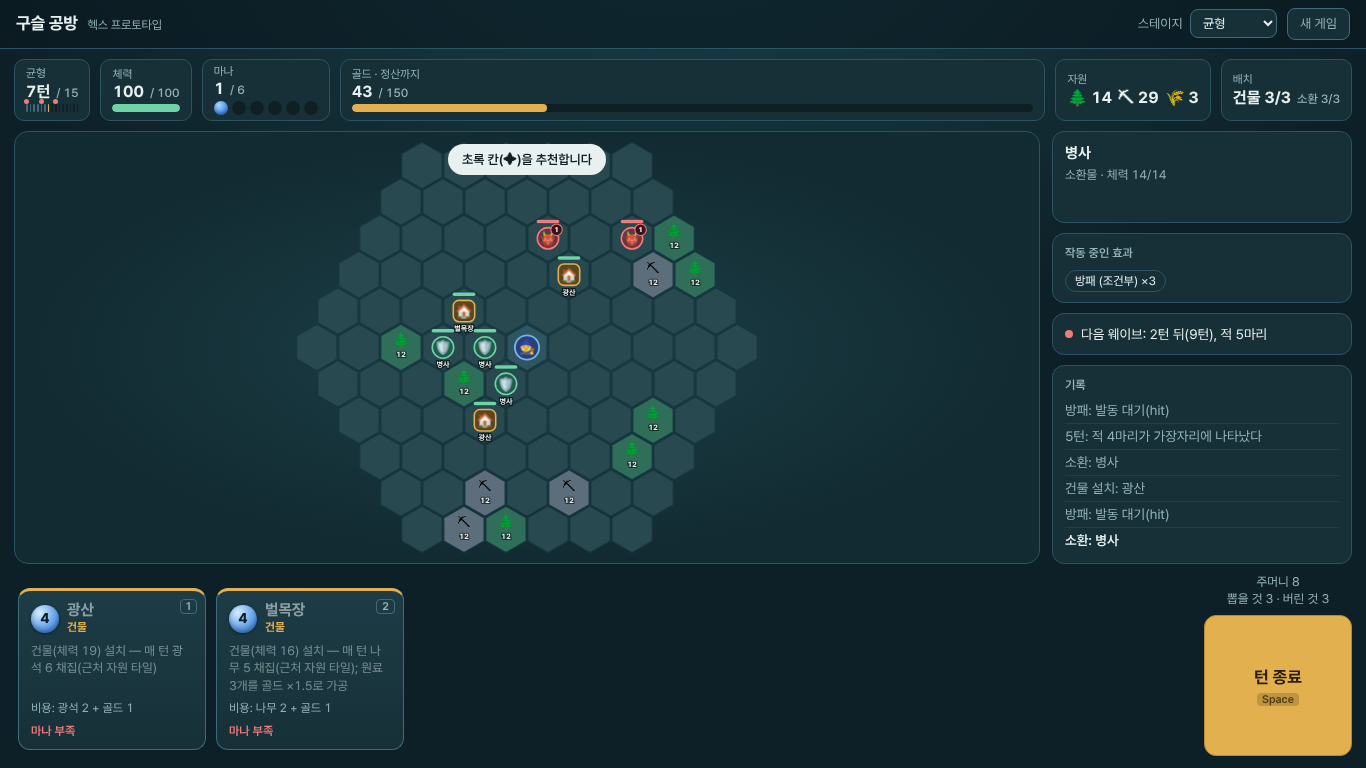
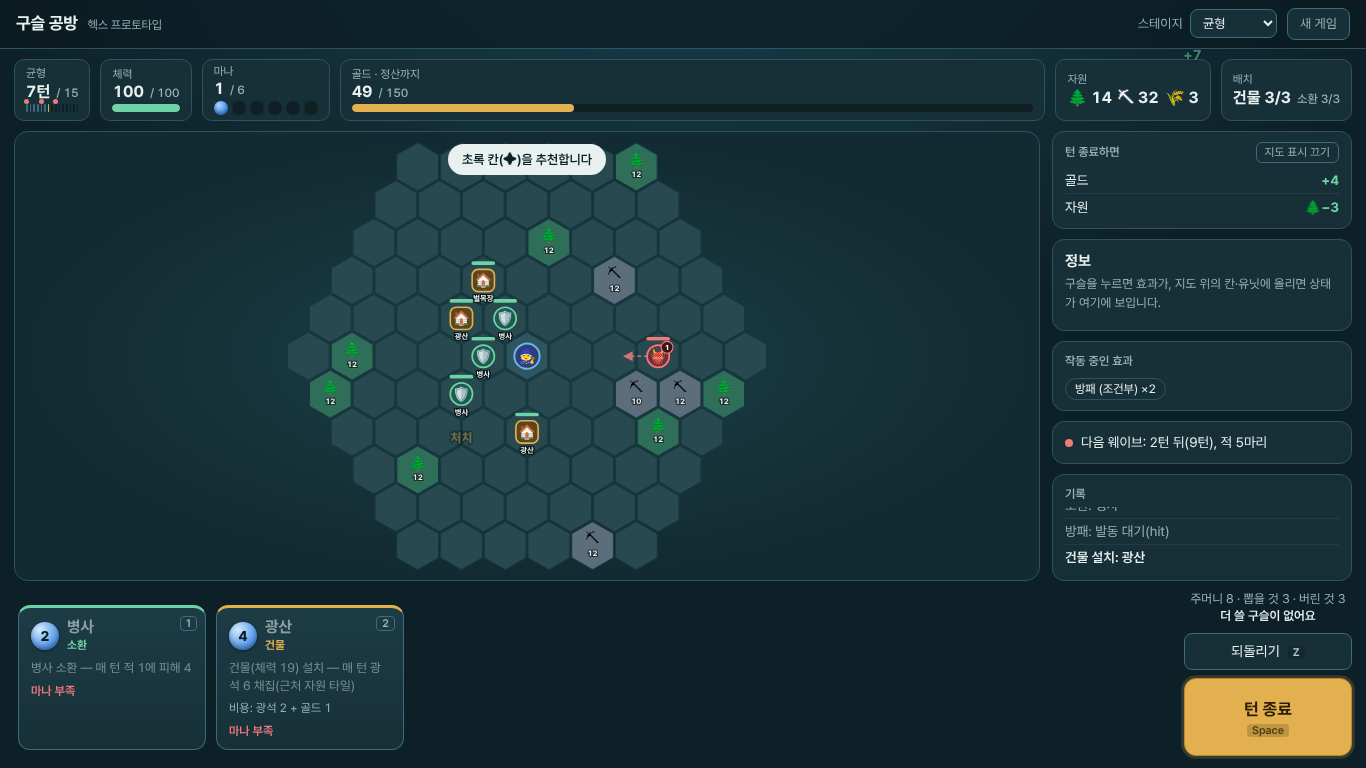
proto: 편의성 개선(턴 종료 예측, 되돌리기, 같은 판 다시, 끌어다 놓기·빠른 배치)
Claude-Session: https://claude.ai/code/session_01LFYfXQ7w4xaHAaCW9wdBAn

diff --git a/proto/app.js b/proto/app.js
@@ -1,5 +1,6 @@
 const S = 34, SQ3 = Math.sqrt(3), R = 5;
 let st = null, prev = null, sel = null, busy = false, pinned = null;
+let history = [], startState = null, pv = null, pvSeq = 0, showPv = true, dragMoved = false;
 const $ = (id) => document.getElementById(id);
 const px = (q, r) => [S * SQ3 * (q + r / 2), S * 1.5 * r];
 const hexPts = (cx, cy, s = S - 1.5) => Array.from({ length: 6 }, (_, i) => { const a = Math.PI / 180 * (60 * i - 30); return `${(cx + s * Math.cos(a)).toFixed(1)},${(cy + s * Math.sin(a)).toFixed(1)}`; }).join(" ");
@@ -27,7 +28,7 @@ const bcostText = (o) => o.role === "build" && o.bcost ? `비용: ${RES[o.bcost[
 
 /* ---------- 흐름 ---------- */
 async function newGame() {
-  if (busy) return; busy = true; sel = null; pinned = null; prev = null;
+  if (busy) return; busy = true; sel = null; pinned = null; prev = null; history = []; startState = null; pv = null;
   const v = await api("new", { stage_type: $("stype").value }); busy = false;
   if (v.error) return alert(v.error);
   st = v; $("over").hidden = true; $("app").hidden = false; resetMap(); render();
@@ -36,7 +37,7 @@ function render() {
   const setup = st.phase === "setup";
   $("setup").hidden = !setup; $("play").hidden = setup;
   if (setup) renderSetup();
-  else { renderHud(); renderMap(); renderHand(); renderSide(); runDiff(); }
+  else { renderHud(); renderMap(); renderHand(); renderSide(); runDiff(); if (st.phase === "play") fetchPreview(); else { pv = null; renderPreview(); } }
   $("over").hidden = st.phase !== "over"; if (st.phase === "over") renderOver();
   prev = st;
 }
@@ -92,11 +93,12 @@ function renderHud() {
 }
 
 /* ---------- 지도 ---------- */
-let hexLayer, unitLayer, ghostLayer, floatLayer, units = new Map();
+let hexLayer, unitLayer, previewLayer, ghostLayer, floatLayer, units = new Map();
 function resetMap() {
   const m = $("map"); m.innerHTML = ""; units = new Map();
-  hexLayer = svg("g"); unitLayer = svg("g"); ghostLayer = svg("g", { class: "ghost" }); floatLayer = svg("g");
-  m.append(hexLayer, unitLayer, ghostLayer, floatLayer);
+  const defs = svg("defs", {}, svg("marker", { id: "arr", viewBox: "0 0 10 10", refX: 8, refY: 5, markerWidth: 6, markerHeight: 6, orient: "auto-start-reverse" }, svg("path", { d: "M0,0 L10,5 L0,10 z", fill: "#ef7b7b" })));
+  hexLayer = svg("g"); unitLayer = svg("g"); previewLayer = svg("g", { class: "pvlayer" }); ghostLayer = svg("g", { class: "ghost" }); floatLayer = svg("g");
+  m.append(defs, hexLayer, unitLayer, previewLayer, ghostLayer, floatLayer);
 }
 function selCard() { return sel !== null && st ? st.hand.find((h) => h.idx === sel) : null; }
 function renderMap() {
@@ -109,6 +111,7 @@ function renderMap() {
     const cls = "hex" + (t ? " " + t.t : "") + (q === 0 && r === 0 ? " home" : "") + (ok.has(k) ? " ok" : "") + (hint.has(k) ? " hint" : "");
     const p = svg("polygon", { points: hexPts(x, y), class: cls });
     if (ok.has(k)) {
+      p.dataset.q = q; p.dataset.r = r;
       p.addEventListener("click", () => playCard(sel, [q, r]));
       p.addEventListener("pointerenter", () => ghost(c, x, y)); p.addEventListener("pointerleave", () => ghostLayer.replaceChildren());
     } else if (t) p.addEventListener("pointerenter", () => inspectTile(t));
@@ -191,7 +194,7 @@ function inspectUnit(u) {
 function renderSide() {
   const c = selCard(), box = $("inspect");
   if (pinned && units.get(pinned)) inspectUnit(units.get(pinned));
-  else if (c) box.replaceChildren(el("b", {}, c.o.name), el("div", { class: "sub" }, `${ROLE[c.o.role] || c.o.role} · 마나 ${c.o.mana}`), el("p", {}, c.o.text), el("p", { class: "sub" }, c.need_tile ? (c.hint.length ? "초록 칸(✦)에 놓으면 보너스가 붙습니다." : "노란 칸 중 하나를 고르세요.") : ""));
+  else if (c) box.replaceChildren(el("b", {}, c.o.name), el("div", { class: "sub" }, `${ROLE[c.o.role] || c.o.role} · 마나 ${c.o.mana}`), el("p", {}, c.o.text), el("p", { class: "sub" }, c.need_tile ? (c.hint.length ? "초록 칸(✦)에 놓으면 보너스가 붙습니다. " : "노란 칸 중 하나를 고르세요. ") + "Enter(또는 더블클릭): 추천 칸에 바로 놓기 · 칸으로 끌어다 놓아도 됩니다." : ""));
   else box.replaceChildren(el("b", {}, "정보"), el("p", { class: "sub" }, "구슬을 누르면 효과가, 지도 위의 칸·유닛에 올리면 상태가 여기에 보입니다."));
   const fx = $("effects"); fx.hidden = !st.fx.length;
   if (st.fx.length) {
@@ -209,12 +212,16 @@ function renderHand() {
   const hd = $("hand"); hd.innerHTML = "";
   st.hand.forEach((h, n) => {
     const o = h.o, dis = !!h.why || st.phase !== "play";
+    let card0 = null;
     const card = el("div", { class: `orb r-${o.role}` + (dis ? " dis" : "") + (sel === h.idx ? " sel" : ""), tabindex: "0", role: "listitem", "aria-label": `${o.name}, 마나 ${o.mana}${h.why ? ", 쓸 수 없음: " + h.why : ""}`, "aria-disabled": String(dis),
-      onclick: () => { if (dis) return toast(h.why || "지금은 쓸 수 없습니다"); playCard(h.idx); },
+      onclick: () => { if (dragMoved) { dragMoved = false; return; } if (dis) return toast(h.why || "지금은 쓸 수 없습니다"); playCard(h.idx); },
       onkeydown: (e) => { if (e.key === "Enter" || e.key === " ") { e.preventDefault(); e.stopPropagation(); if (dis) toast(h.why || "지금은 쓸 수 없습니다"); else playCard(h.idx); } },
-      onpointerenter: () => { if (sel === null && !pinned) peek(h); } },
+      onpointerenter: () => { if (sel === null && !pinned) peek(h); },
+      onpointerdown: (e) => { if (!dis && h.need_tile) startDrag(e, h, card0); },
+      ondblclick: () => { if (!dis && h.need_tile) quick(h); } },
       el("div", { class: "top1" }, el("div", { class: "bead" }, String(o.mana)), el("div", {}, el("div", { class: "nm" }, o.name), el("div", { class: "role" }, ROLE[o.role] || o.role))),
       el("div", { class: "tx" }, o.text));
+    card0 = card;
     const bc = bcostText(o); if (bc) card.append(el("div", { class: "cost" }, bc));
     if (h.why) card.append(el("div", { class: "why" }, h.why));
     if (n < 9) card.append(el("span", { class: "key", "aria-hidden": "true" }, String(n + 1)));
@@ -222,7 +229,10 @@ function renderHand() {
   });
   if (!st.hand.length) hd.append(el("span", { class: "empty" }, "손패가 없습니다. 턴을 끝내면 새로 뽑습니다."));
   $("endturn").disabled = st.phase !== "play" || busy;
-  $("piles").innerHTML = `주머니 ${st.bag}<br>뽑을 것 ${st.draw} · 버린 것 ${st.disc}`;
+  const usable = st.hand.filter((h) => !h.why).length;
+  $("endturn").classList.toggle("ready", st.phase === "play" && !usable);
+  $("undo").disabled = busy || !history.length;
+  $("piles").innerHTML = `주머니 ${st.bag} · 뽑을 것 ${st.draw} · 버린 것 ${st.disc}<br><b>${usable ? `쓸 수 있는 구슬 ${usable}개 남음` : "더 쓸 구슬이 없어요"}</b>`;
 }
 function peek(h) { $("inspect").replaceChildren(el("b", {}, h.o.name), el("div", { class: "sub" }, `${ROLE[h.o.role] || h.o.role} · 마나 ${h.o.mana}`), el("p", {}, h.o.text)); }
 
@@ -234,6 +244,7 @@ async function playCard(idx, tile) {
   busy = true; const v = await api("play", { idx, tile }); busy = false; sel = null;
   if (v.error) return toast(v.error);
   if (v.action && v.action.error) toast(v.action.error);
+  if (!(v.action && v.action.error)) pushHistory();
   st = v; render();
 }
 async function endTurn() {
@@ -241,14 +252,14 @@ async function endTurn() {
   $("endturn").disabled = true; $("endturn").firstChild.textContent = "적 행동 중…";
   const v = await api("end_turn"); busy = false; $("endturn").firstChild.textContent = "턴 종료";
   if (v.error) { toast(v.error); return render(); }
-  st = v; render();
+  pushHistory(); st = v; render();
 }
 function renderOver() {
   const r = st.result, o = $("over");
   const rows = [["모은 골드", `${r.gold} / 필요 ${r.due}`], ["처치한 적", r.kills], ["진행한 턴", r.turns], ["쓰러졌는가", r.died ? "예 (이 스테이지의 골드 몰수)" : "아니오"], ["골드 출처", `처치 ${r.src.g_bounty || 0} · 돈 구슬 ${r.src.g_money || 0} · 가공 ${r.src.g_process || 0}`], ["인접 시너지 발동", r.src.adj_bonus || 0]];
   const t = el("table", {}); rows.forEach(([a, b]) => t.append(el("tr", {}, el("td", {}, a), el("td", {}, String(b)))));
   const again = el("button", { class: "primary big", type: "button", onclick: newGame }, "다시 하기");
-  o.replaceChildren(el("div", { class: "result", role: "dialog", "aria-modal": "true", "aria-label": "스테이지 결과" }, el("h2", { class: r.pass ? "pass" : "fail" }, r.pass ? "정산 통과" : "정산 실패"), t, el("div", { class: "acts" }, el("button", { type: "button", onclick: () => { o.hidden = true; } }, "지도 보기"), again)));
+  o.replaceChildren(el("div", { class: "result", role: "dialog", "aria-modal": "true", "aria-label": "스테이지 결과" }, el("h2", { class: r.pass ? "pass" : "fail" }, r.pass ? "정산 통과" : "정산 실패"), t, el("div", { class: "acts" }, el("button", { type: "button", onclick: () => { o.hidden = true; } }, "지도 보기"), startState ? el("button", { type: "button", title: "같은 맵·같은 주머니·같은 적 등장으로 다시 시작합니다", onclick: replay }, "같은 판 다시") : null, again)));
   setTimeout(() => again.focus(), 50);
 }
 
@@ -256,12 +267,92 @@ function renderOver() {
 document.addEventListener("keydown", (e) => {
   if (!st || st.phase !== "play" || e.ctrlKey || e.metaKey || e.altKey) return;
   const tag = (e.target.tagName || "").toLowerCase(); if (tag === "input" || tag === "select") return;
-  if (e.key >= "1" && e.key <= "9") { const h = st.hand[+e.key - 1]; if (h) { e.preventDefault(); if (h.why) toast(h.why); else playCard(h.idx); } }
+  if (e.key >= "1" && e.key <= "9") { const h = st.hand[+e.key - 1]; if (h) { e.preventDefault(); if (h.why) toast(h.why); else if (sel === h.idx && h.need_tile) quick(h); else playCard(h.idx); } }
+  else if (e.key === "z" || e.key === "Z" || e.key === "ㅋ") { e.preventDefault(); undo(); }
   else if (e.key === "Escape") { if (sel !== null) { sel = null; pinned = null; renderHud(); renderMap(); renderHand(); renderSide(); } }
-  else if ((e.key === " " || e.key === "Enter") && tag !== "button" && !e.target.classList.contains("orb")) { e.preventDefault(); endTurn(); }
+  else if ((e.key === " " || e.key === "Enter") && tag !== "button" && !e.target.classList.contains("orb")) { e.preventDefault(); const c = selCard(); if (c) quick(c); else endTurn(); }
 });
 $("map").addEventListener("pointerleave", () => { if (st && st.phase === "play") renderSide(); });
 $("newgame").addEventListener("click", newGame);
-$("start").addEventListener("click", async () => { if (busy) return; busy = true; const v = await api("start"); busy = false; if (v.error) return toast(v.error); st = v; resetMap(); render(); });
+$("start").addEventListener("click", async () => { if (busy) return; busy = true; const v = await api("start"); busy = false; if (v.error) return toast(v.error); st = v; startState = v; history = []; resetMap(); render(); });
 $("endturn").addEventListener("click", endTurn);
+$("undo").addEventListener("click", undo);
+document.addEventListener("keydown", (e) => { if ((e.ctrlKey || e.metaKey) && (e.key === "z" || e.key === "Z") && st && st.phase !== "setup") { e.preventDefault(); undo(); } });
 newGame();
+
+
+/* ---------- 되돌리기 · 같은 판 다시 ---------- */
+function pushHistory() { history.push(st); if (history.length > 80) history.shift(); }
+function undo() {
+  if (busy || !st || st.phase === "setup") return;
+  if (!history.length) return toast("되돌릴 행동이 없습니다");
+  st = history.pop(); sel = null; pinned = null; prev = null; $("over").hidden = true; render(); toast("되돌렸습니다");
+}
+function replay() { if (!startState) return; st = startState; history = []; sel = null; pinned = null; prev = null; $("over").hidden = true; resetMap(); render(); }
+
+/* ---------- 빠른 배치 · 끌어다 놓기 ---------- */
+const bestTile = (c) => (c.hint.length ? c.hint[0] : c.tiles[0]);
+function quick(h) { if (!h.tiles.length) return toast("놓을 수 있는 칸이 없습니다"); playCard(h.idx, bestTile(h)); }
+function startDrag(e, h, cardEl) {
+  if (e.button > 0 || busy) return;
+  const x0 = e.clientX, y0 = e.clientY; let dragging = false, chip = null, over = null;
+  const tileAt = (x, y) => { const t = document.elementFromPoint(x, y); return t && t.closest && t.closest(".hex.ok"); };
+  const move = (ev) => {
+    if (!dragging) {
+      if (Math.hypot(ev.clientX - x0, ev.clientY - y0) < 8) return;
+      dragging = true; dragMoved = true; sel = h.idx; renderHud(); renderMap(); renderSide();
+      document.querySelectorAll(".orb.sel").forEach((n) => n.classList.remove("sel")); cardEl.classList.add("sel");
+      chip = el("div", { class: "dragchip r-" + h.o.role }, h.o.name); document.body.append(chip);
+    }
+    chip.style.transform = `translate(${ev.clientX + 12}px,${ev.clientY + 12}px)`;
+    const t = tileAt(ev.clientX, ev.clientY);
+    if (t !== over) { if (over) over.classList.remove("drop"); over = t; if (over) over.classList.add("drop"); }
+  };
+  const end = (ev) => {
+    window.removeEventListener("pointermove", move); window.removeEventListener("pointerup", end); window.removeEventListener("pointercancel", end);
+    if (!dragging) return;
+    if (chip) chip.remove();
+    const t = ev.type === "pointerup" ? tileAt(ev.clientX, ev.clientY) : null;
+    setTimeout(() => { dragMoved = false; }, 0);
+    if (t) playCard(h.idx, [+t.dataset.q, +t.dataset.r]);
+    else { sel = null; renderHud(); renderMap(); renderHand(); renderSide(); toast("칸 위에 놓아야 합니다"); }
+  };
+  window.addEventListener("pointermove", move); window.addEventListener("pointerup", end); window.addEventListener("pointercancel", end);
+}
+
+/* ---------- 턴 종료 예측 ---------- */
+async function fetchPreview() {
+  const my = ++pvSeq; if (previewLayer) previewLayer.innerHTML = ""; $("turnpreview").classList.add("stale");
+  const v = await api("preview"); if (my !== pvSeq) return;
+  pv = v && v.preview ? v.preview : null; $("turnpreview").classList.remove("stale"); renderPreview();
+}
+function renderPreview() {
+  const box = $("turnpreview"), L = previewLayer; if (L) L.innerHTML = "";
+  const head = el("div", { class: "pvhead" }, el("h3", {}, "턴 종료하면"), el("button", { type: "button", class: "mini", "aria-pressed": String(showPv), title: "지도에 적 이동·피해 예측을 겹쳐 보입니다", onclick: () => { showPv = !showPv; renderPreview(); } }, showPv ? "지도 표시 끄기" : "지도 표시 켜기"));
+  if (!st || st.phase !== "play") { box.replaceChildren(head, el("p", { class: "sub" }, "플레이 중에 표시됩니다.")); return; }
+  if (!pv) { box.replaceChildren(head, el("p", { class: "sub" }, "계산 중…")); return; }
+  const sg = (n) => (n > 0 ? "+" : n < 0 ? "−" : "") + Math.abs(n);
+  const rows = [];
+  if (pv.over) {
+    const r = pv.result; rows.push(el("div", { class: "pvrow" }, el("span", {}, "마지막 턴입니다 · 정산 예상"), el("b", { class: r.pass ? "up" : "down" }, `골드 ${r.gold} / ${r.due} ${r.pass ? "통과" : "실패"}`)));
+    if (r.died) rows.push(el("div", { class: "pvrow" }, el("span", {}, "체력이 바닥나 쓰러집니다"), el("b", { class: "down" }, "골드 몰수")));
+  } else {
+    if (pv.gold) rows.push(el("div", { class: "pvrow" }, el("span", {}, "골드"), el("b", { class: pv.gold > 0 ? "up" : "down" }, sg(pv.gold))));
+    const rs = ["wood", "ore", "food"].filter((k) => pv.res[k]).map((k) => `${{ wood: "🌲", ore: "⛏", food: "🌾" }[k]}${sg(pv.res[k])}`);
+    if (rs.length) rows.push(el("div", { class: "pvrow" }, el("span", {}, "자원"), el("b", { class: "up" }, rs.join("  "))));
+    if (pv.hp) rows.push(el("div", { class: "pvrow" }, el("span", {}, "체력"), el("b", { class: pv.hp > 0 ? "up" : "down" }, sg(pv.hp))));
+    if (pv.kills) rows.push(el("div", { class: "pvrow" }, el("span", {}, "적 처치"), el("b", { class: "up" }, `${pv.kills}마리`)));
+    for (const o of pv.own) rows.push(el("div", { class: "pvrow" }, el("span", {}, `${o.name} (${o.kind === "buildings" ? "건물" : "소환"})`), el("b", { class: "down" }, o.lost ? "파괴됨" : `피해 −${o.dmg}`)));
+    if (pv.spawn) rows.push(el("div", { class: "pvrow" }, el("span", {}, "새 적 등장"), el("b", { class: "down" }, `${pv.spawn}마리`)));
+  }
+  if (!rows.length) rows.push(el("p", { class: "sub" }, "큰 변화가 없습니다."));
+  box.replaceChildren(head, ...rows);
+  if (!showPv || !L) return;
+  for (const m of pv.moves) {
+    const [x1, y1] = px(...m.from), [x2, y2] = px(...m.to), dx = x2 - x1, dy = y2 - y1, d = Math.hypot(dx, dy) || 1, k = 14 / d;
+    L.append(svg("line", { x1: x1 + dx * k, y1: y1 + dy * k, x2: x2 - dx * k, y2: y2 - dy * k, class: "pv-arrow", "marker-end": "url(#arr)" }));
+  }
+  for (const [q, r] of pv.dead) { const [x, y] = px(q, r); L.append(svg("text", { x, y: y + 7, class: "pv-x gold" }, "✕")); }
+  for (const [q, r] of pv.spawned) { const [x, y] = px(q, r); L.append(svg("polygon", { points: hexPts(x, y), class: "pv-spawn" })); }
+  for (const o of pv.own) { const [x, y] = px(o.q, o.r); L.append(o.lost ? svg("text", { x, y: y + 7, class: "pv-x" }, "✕") : svg("text", { x: x + 15, y: y - 12, class: "pv-dmg" }, `−${o.dmg}`)); }
+}

diff --git a/proto/style.css b/proto/style.css
@@ -145,10 +145,30 @@ aside{display:flex;flex-direction:column;gap:10px;min-height:0}
 .why{font-size:12px;font-weight:600;color:var(--rose)}
 .key{position:absolute;right:8px;top:8px;font:600 11px var(--font);color:var(--mute);border:1px solid var(--line2);border-radius:4px;padding:0 5px}
 .empty{color:var(--mute);align-self:center;padding:0 8px}
-.turnctl{display:flex;flex-direction:column;gap:8px;justify-content:flex-end;width:148px;flex:none}
+.turnctl{display:flex;flex-direction:column;gap:8px;justify-content:flex-end;width:168px;flex:none}
 .piles{font-size:12.5px;color:var(--mute);text-align:center;line-height:1.35}
-#endturn{flex:1;min-height:56px;font-size:17px;border-radius:12px;display:grid;place-items:center;align-content:center}
+#endturn{flex:1;min-height:52px;font-size:17px;border-radius:12px;display:grid;place-items:center;align-content:center}
 #endturn kbd{margin:2px 0 0}
+
+/* ---------- 턴 종료 예측 · 되돌리기 · 끌어다 놓기 ---------- */
+#turnpreview{padding-bottom:8px;transition:opacity .15s}#turnpreview.stale{opacity:.5}
+.pvhead{display:flex;justify-content:space-between;align-items:center;gap:8px;margin-bottom:4px}.pvhead h3{margin:0}
+button.mini{font-size:11.5px;padding:1px 8px;border-radius:6px;color:var(--mute)}
+.pvrow{display:flex;justify-content:space-between;gap:10px;padding:3px 0;border-bottom:1px solid rgba(255,255,255,.06)}.pvrow:last-child{border-bottom:0}
+.pvrow b.up{color:var(--mint)}.pvrow b.down{color:var(--rose)}
+#turnpreview .sub{color:var(--mute);font-size:12.5px;margin:2px 0 0}
+.pv-arrow{stroke:var(--rose);stroke-width:2.2;stroke-dasharray:5 4;opacity:.85;pointer-events:none}
+.pv-x{font-size:22px;font-weight:800;text-anchor:middle;fill:var(--rose);paint-order:stroke;stroke:#000;stroke-width:3px;pointer-events:none}.pv-x.gold{fill:var(--brass)}
+.pv-dmg{font-size:13px;font-weight:800;text-anchor:middle;fill:#ff9a9a;paint-order:stroke;stroke:#000;stroke-width:3.5px;pointer-events:none}
+.pv-spawn{fill:rgba(239,123,123,.12);stroke:var(--rose);stroke-width:2;stroke-dasharray:4 3;pointer-events:none;animation:pulse 1.4s ease-in-out infinite}
+.hex.drop{fill:#8a7430!important;stroke:#ffe08a;stroke-width:4}
+.dragchip{position:fixed;left:0;top:0;z-index:20;pointer-events:none;padding:5px 12px;border-radius:999px;background:var(--panel2);border:2px solid var(--c,var(--brass));font-weight:700;box-shadow:0 8px 20px rgba(0,0,0,.5)}
+.dragchip.r-build{--c:var(--r-build)}.dragchip.r-summon{--c:var(--r-summon)}.dragchip.r-move{--c:var(--r-move)}.dragchip.r-cast{--c:var(--r-cast)}
+.orb{touch-action:pan-x;user-select:none}
+.piles b{color:var(--ink);font-weight:600}
+#undo{padding:7px 10px;font-size:14px}
+#endturn.ready{animation:ready 1.6s ease-in-out infinite}
+@keyframes ready{50%{box-shadow:0 0 0 5px rgba(227,176,79,.35)}}
 
 /* ---------- 결과 ---------- */
 .modal{position:fixed;inset:0;background:rgba(5,14,18,.72);display:grid;place-items:center;padding:16px;z-index:10;backdrop-filter:blur(2px)}
@@ -168,7 +188,7 @@ aside{display:flex;flex-direction:column;gap:10px;min-height:0}
   aside{display:grid;grid-template-columns:1fr 1fr}.logbox{grid-column:1 / -1;max-height:150px}
   .dock{position:sticky;bottom:0;background:linear-gradient(transparent,var(--bg) 18%);padding-bottom:10px;margin:0 -10px;padding-left:10px;padding-right:10px}
   .orb{flex-basis:164px;min-height:124px}
-  .turnctl{width:96px;justify-content:center}.piles{display:none}
+  .turnctl{width:96px;justify-content:center}.piles{display:none}#undo kbd{display:none}
   #endturn{flex:0 0 auto;min-height:76px}
   #endturn kbd,.key{display:none}
   .top h1 small{display:none}

diff --git a/proto/index.html b/proto/index.html
@@ -43,6 +43,7 @@
           <div id="toast" role="status" aria-live="polite"></div>
         </div>
         <aside>
+          <div id="turnpreview" class="box"></div>
           <div id="inspect" class="box"></div>
           <div id="effects" class="box" hidden></div>
           <div id="forecast" class="box"></div>
@@ -53,6 +54,7 @@
         <div id="hand" role="list"></div>
         <div class="turnctl">
           <div id="piles" class="piles"></div>
+          <button id="undo" type="button" title="직전 행동을 되돌립니다 (Z)">되돌리기<kbd>Z</kbd></button>
           <button id="endturn" class="primary" type="button">턴 종료<kbd>Space</kbd></button>
         </div>
       </div>

diff --git a/proto/core.py b/proto/core.py
@@ -47,6 +47,22 @@ def handle(body):
         try: r = g.play(int(body.get("idx", -1)), tuple(int(x) for x in t) if t else None)
         except (TypeError, ValueError): r = {"error": "요청이 잘못되었습니다"}
         v = view(S); v["action"] = r; return 200, v
+    if op == "preview":
+        # 복사본으로 턴 종료를 미리 돌려 본다(난수 상태까지 덩어리에 들어 있어 실제 턴 종료와 결과가 같다). 저장하지 않는다.
+        if g.phase != "play": return 200, {"preview": None}
+        v1 = g.view(); g2 = unpack(body.get("blob", ""))["g"]; g2.end_turn(); v2 = g2.view()
+        id1 = {e["id"]: e for e in v1["enemies"]}; id2 = {e["id"]: e for e in v2["enemies"]}
+        moves = [{"id": i, "from": [e["q"], e["r"]], "to": [id2[i]["q"], id2[i]["r"]]} for i, e in id1.items() if i in id2 and (e["q"], e["r"]) != (id2[i]["q"], id2[i]["r"])]
+        own = []
+        for k in ("buildings", "summons"):
+            n = {x["id"]: x for x in v2[k]}
+            for x in v1[k]:
+                y = n.get(x["id"])
+                if y is None: own.append({"id": x["id"], "kind": k, "q": x["q"], "r": x["r"], "name": x["name"], "lost": True, "dmg": x["hp"]})
+                elif y["hp"] < x["hp"]: own.append({"id": x["id"], "kind": k, "q": x["q"], "r": x["r"], "name": x["name"], "lost": False, "dmg": x["hp"] - y["hp"]})
+        pv = {"over": v2["phase"] == "over", "result": v2["result"], "hp": v2["hp"] - v1["hp"], "gold": v2["gold"] - v1["gold"], "res": {k: v2["res"][k] - v1["res"][k] for k in v1["res"]},
+              "kills": sum(1 for i in id1 if i not in id2), "spawn": sum(1 for i in id2 if i not in id1), "moves": moves, "own": own, "dead": [[e["q"], e["r"]] for i, e in id1.items() if i not in id2], "spawned": [[e["q"], e["r"]] for i, e in id2.items() if i not in id1]}
+        return 200, {"preview": pv}
     if op == "end_turn":
         r = g.end_turn(); v = view(S); v["action"] = r; return 200, v
     return 404, {"error": "알 수 없는 요청"}

diff --git a/HANDOFF.md b/HANDOFF.md
@@ -20,7 +20,7 @@
 - **건물·정산·전직 구상(디렉터, 2026-11-05)**: 건물 개수 제한은 기본으로 있고, **건물 짓기에 특화된 주머니면 제한이 더 늘어난 주인공 원형으로 "전직"**할 수 있다(덱→주인공 구상의 연장: 주머니 이름 전체를 Jev가 읽어 원형을 정함). 곱하기 시너지를 노리는 구조라면 **정산 기준도 기하급수로 증가**해야 의미가 있다. 우려: 헥사타일 게임 베이스가 갖춰져야 제대로 된 시험이 되는데 지금 가테스트로 충분한가 → 판단: 경제 구조(비용 곡선, 단독 가치 상한, 정산 증가, 정답화)는 가테스트로 가능, **인접·배치·재미는 헥스 프로토타입이 필요**. 순서 제안: 시뮬레이터에서 구조 규칙을 시간제한 두고 확정(최적화 탐색으로 정답화 검사) → 최소 헥스 프로토타입(한 스테이지).
 - **구슬 획득 방식(디렉터, 2026-11-05)**: **필수 구슬 몇 개를 처음에 제공**하고 스테이지마다 새 구슬을 얻는다. 런 후반에 주머니 **약 30개**, 아주 많이 굴리면 **약 50개** 정도(슬레이 더 스파이어의 감각). 빈 구슬에 **미리 새겨진 글씨**(`template.html`의 PRE/SUF_SP/SUF_ATT 약 210종, 예: "녹슨 ___", "___ 의 그림자", "___ 대작전")는 플레이어가 빈칸만 채우게 해서 **원하는 이름을 마음대로 만드는 것을 제한**하는 장치다(Jev는 합쳐진 전체 이름을 읽음). 등급별 확률 낡은 100%·평범한 50%·깨끗한 25%·금박 10%. 현재 장난감의 "다른 빈 구슬" 재뽑기는 무제한 무료라 제약이 사실상 풀림 → 재뽑기에 횟수/비용 제한 필요(미정). **시뮬레이터의 보상 모델(무작위 3개 중 선택)은 이 제약을 반영하지 못함**, 따라서 정답 이름 문제를 과대평가했을 수 있음 → 확인 실험 필요.
 - **재뽑기 결정(디렉터, 2026-11-05)**: 장난감의 "다른 빈 구슬" 재뽑기는 **시험용이었고 게임에서는 없앤다.** 받은 빈 구슬(새겨진 말 포함)을 그대로 쓴다. 시뮬레이터 4차 기준으로는 "재뽑기 0회"(12스테이지 중 평균 8.1 통과)가 해당. 새겨진 말은 제한이라기보다 **운에 따른 무작위 보정**(원래 이득의 약 ×0.2 ~ ×2)이 된다. 장난감(`template.html`)의 재뽑기 버튼은 아직 남아 있음(게임/프로토타입에는 넣지 않음).
-- **웹 헥스 프로토타입 1차 완성(`proto/`, 2026-11-05)**: 한 스테이지(15턴)를 직접 플레이. `engine.py`(파이썬 헥스 규칙: 축 좌표, 건물·소환 배치, 자원 타일 인접 보너스, 적 길찾기와 건물 공격, 도미니언식 턴, 사망 시 골드 몰수, 정산), `orbs.py`(구슬 만들기는 `sim/orbsim.py` 공유, 새겨진 말 210종, 재뽑기 없음), `core.py`+`server.py`+`api/app.py`(**상태 없는 요청 처리**: 게임 상태가 서명된 덩어리로 오가서 Vercel 서버리스에 그대로 올라감), `index.html`/`app.js`(SVG 맵·손패·구슬 쓰기 화면), `vendor/`·`data/`(`sync_vendor.py`로 생성, proto 폴더만으로 완결). 실행 `python proto/server.py`(`JEV_API_KEY` 필요), **웹 배포는 새 Vercel 프로젝트(Root Directory=`proto`, 환경 변수 `JEV_API_KEY`·`STATE_SECRET`·선택 `ACCESS_CODE`)** — `proto/README.md` 참고, Vercel 자체는 이 환경에서 미시험(proto만 복사한 폴더에서 실제 Jev 호출·함수 핸들러 시험은 통과). **확인**: 실제 Jev로 "금광"→건물, "빛나는 화살"(새겨진 말 "빛나는")→피해 19, "동네 시장"·"사장님의 번개" 생성, 헤드리스 크롬으로 이름 쓰기→건물 놓기→15턴→정산 전체 흐름·모바일 폭(390px) 가로 넘침 없음·콘솔 오류 0, 무작위 봇 90판 오류 0. **난이도 시험값**: 정산 150에서 무작위 봇 38%·건물 우선 봇 64% 통과(적 많음 스테이지가 가장 쉬움 — 시뮬레이터 약점 그대로). **화면 개편(2026-11-06)**: 테스트플레이용으로 `index.html`/`style.css`/`app.js`를 새로 씀(짙은 청록+황동 테마, 한 화면에 지도·손패·턴 종료, 키보드 `1`~`9`·`Space`·`Esc`, 마나 소모 미리보기, 놓을 자리 고스트, 유닛 이동 애니메이션, 변화 숫자 표시, 웨이브 예고·작동 중 효과·호버 정보, 모바일 폭 가로 넘침 없음). 규칙은 안 바꿨고 `engine.py`가 `waves`(등장 턴·적 수)를 상태에 추가로 내려줌. 15턴 자동 플레이로 콘솔 오류 0 확인. **미구현**: 런·보상·상점·보스·금박, 구슬 한계·파손, 수동 겨냥, 소환물 이동, remove·transform. 다음: 직접 만져 보고 인접 시너지·스테이지 종류·배치의 재미 확인. `proto/README.md`.
+- **웹 헥스 프로토타입 1차 완성(`proto/`, 2026-11-05)**: 한 스테이지(15턴)를 직접 플레이. `engine.py`(파이썬 헥스 규칙: 축 좌표, 건물·소환 배치, 자원 타일 인접 보너스, 적 길찾기와 건물 공격, 도미니언식 턴, 사망 시 골드 몰수, 정산), `orbs.py`(구슬 만들기는 `sim/orbsim.py` 공유, 새겨진 말 210종, 재뽑기 없음), `core.py`+`server.py`+`api/app.py`(**상태 없는 요청 처리**: 게임 상태가 서명된 덩어리로 오가서 Vercel 서버리스에 그대로 올라감), `index.html`/`app.js`(SVG 맵·손패·구슬 쓰기 화면), `vendor/`·`data/`(`sync_vendor.py`로 생성, proto 폴더만으로 완결). 실행 `python proto/server.py`(`JEV_API_KEY` 필요), **웹 배포는 새 Vercel 프로젝트(Root Directory=`proto`, 환경 변수 `JEV_API_KEY`·`STATE_SECRET`·선택 `ACCESS_CODE`)** — `proto/README.md` 참고, Vercel 자체는 이 환경에서 미시험(proto만 복사한 폴더에서 실제 Jev 호출·함수 핸들러 시험은 통과). **확인**: 실제 Jev로 "금광"→건물, "빛나는 화살"(새겨진 말 "빛나는")→피해 19, "동네 시장"·"사장님의 번개" 생성, 헤드리스 크롬으로 이름 쓰기→건물 놓기→15턴→정산 전체 흐름·모바일 폭(390px) 가로 넘침 없음·콘솔 오류 0, 무작위 봇 90판 오류 0. **난이도 시험값**: 정산 150에서 무작위 봇 38%·건물 우선 봇 64% 통과(적 많음 스테이지가 가장 쉬움 — 시뮬레이터 약점 그대로). **화면 개편(2026-11-06)**: 테스트플레이용으로 `index.html`/`style.css`/`app.js`를 새로 씀(짙은 청록+황동 테마, 한 화면에 지도·손패·턴 종료, 키보드 `1`~`9`·`Space`·`Esc`, 마나 소모 미리보기, 놓을 자리 고스트, 유닛 이동 애니메이션, 변화 숫자 표시, 웨이브 예고·작동 중 효과·호버 정보, 모바일 폭 가로 넘침 없음). 규칙은 안 바꿨고 `engine.py`가 `waves`(등장 턴·적 수)를 상태에 추가로 내려줌. **편의 기능 추가(같은 날)**: 턴 종료 예측 패널·지도 겹침(`core.py`의 `op=preview`: 복사본으로 end_turn을 돌려 실제와 같은 결과를 미리 보임, 적 위치 불일치 0건 확인), 되돌리기(80단계)·같은 판 다시, 끌어다 놓기·더블클릭·Enter 빠른 배치, 쓸 구슬 없으면 턴 종료 강조. 15턴 자동 플레이로 콘솔 오류 0 확인. **미구현**: 런·보상·상점·보스·금박, 구슬 한계·파손, 수동 겨냥, 소환물 이동, remove·transform. 다음: 직접 만져 보고 인접 시너지·스테이지 종류·배치의 재미 확인. `proto/README.md`.
 - **테마 방침**: LLM이 낸 테마 아이디어는 만족스러웠던 적이 없다고 함 → 테마는 **디렉터의 영감 또는 가용한 에셋**에서 정한다(제안을 쏟아내지 않기). 후보 에셋은 itch.io Creator Bundle Vol.1(85팩, $25, 유니티·고도·FBX·glTF). **사람 캐릭터 5종**(Cartoon Characters 1·2, Slavic Medieval Villagers, ART DECO Victorian Citizens, PHILIPP)은 있으나 **몬스터·크리처 팩은 목록에 없고** UI·아이콘도 없음. 환경·소품은 매우 풍부(중세 마을, 빅토리아 시가지, 만화 도시, 묘지·할로윈, 숲·초원, 농장, 사막·해적섬, 늪, SF, 음식·주방). 애니메이션 유무는 미확인.
 - **효과 축 1차 시험 완료**: `measurements/orb_axes/` (`SURVEY.md` 조사, `REPORT.md` 결과). 요약: 이름→축 판정은 **안정적**(0.5선 넘나듦 0.4%)이고 **미리 적은 기대값과 92% 일치**(영어 96%). 동사·역할·지속은 잘 되나, 주머니 조작 동사(draw·recycle·trash·peek)는 1차에서 불안정해 보였으나 **보충 시험에서 정정: 개념에 어울리는 이름이면 축마다 6개 중 5~6개가 켜지고 오탐 0~1개**(1차 실패는 애매한 이름 탓), `remove`↔`damage`·`energy`↔`heal` 겹침, 이름 18%는 켜진 동사가 없음(바닥 규칙 필요). "만능·전지전능"은 동사는 못 올리고 힘만 올림. "무한한 돈"은 money+힘 3.9로 쉬운 판 깨기이며 8자 이내 "황금알을 낳는 거위"도 동사 3개를 켬 → **돈의 양은 규칙(힘·마나 비용·정산)이 정해야 함**.
 - **조사 보완(같은 날)**: 처음엔 위키가 봇 차단(403, Anubis)으로 안 읽혀 하스스톤·도미니언·슬레이 더 스파이어·발라트로를 기억으로 정리했으나, **TinyFish `fetch_content`(실제 브라우저)로 대부분 읽혀** 대조함(도미니언 전략 위키 용어집·팬덤 두 곳은 끝까지 막힘, 대체 사이트 사용). **v0에 없던 축**: 만들기(create), 주머니 안 패시브, 구슬 수명 변형(유지·휘발·소멸), 돈 들어오는 시점(즉시/매 턴/정산/이자), 배수·반복, 조건부, 훔치기·부담 구슬. 참고: 도미니언의 주 효과(획득·폐기·버리기·뽑기)는 전부 주머니 조작이며, 보충 시험 결과 이름으로 판정 가능(남은 문제는 일반 이름에서의 빈도·오탐, 예: draw가 금화 주머니·곡괭이에 켜짐). 상세 `measurements/orb_axes/SURVEY.md`.

diff --git a/proto/README.md b/proto/README.md
@@ -4,7 +4,11 @@
 
 ![플레이 화면](docs/play.png)
 
-화면은 한 화면에 지도·손패·턴 종료가 모두 보이게 짰다(좁은 화면은 손패가 아래에 붙음). 구슬은 `1`~`9`, 턴 종료는 `Space`, 선택 취소는 `Esc`. 턴이 끝나면 체력·골드·자원 변화와 처치가 숫자로 뜨고, 유닛은 부드럽게 움직인다. 구슬을 고르면 마나 소모 미리보기와 놓을 자리 미리보기(고스트)가 보이고, 웨이브 예고는 상단 턴 막대의 빨간 점과 오른쪽 열에 나온다.
+화면 편의 기능(테스트플레이용):
+- **턴 종료 예측**: 오른쪽 위 "턴 종료하면" 패널에 골드·자원·체력 변화, 처치, 파괴될 건물, 새 적 수가 미리 나온다. 복사본으로 턴 종료를 미리 돌려 보는 것이라(`op=preview`, 난수 상태까지 같음) 실제 결과와 같다. 지도에는 적의 이동 방향(점선 화살표)·새 적 등장 칸·피해 받을 건물이 겹쳐 보인다(끌 수 있음).
+- **되돌리기**: `Z`/`Ctrl+Z`/버튼. 직전 행동(구슬 사용·턴 종료)을 무제한(80단계) 되돌린다. 결과 화면의 **같은 판 다시**는 같은 맵·주머니·적 등장으로 다시 시작한다.
+- **빠른 배치**: 구슬을 칸으로 **끌어다 놓기**, 구슬 **더블클릭**, 구슬 선택 뒤 **Enter**(또는 같은 숫자 키 한 번 더)로 추천(초록) 칸에 바로 놓기.
+- 구슬은 `1`~`9`, 턴 종료는 `Space`, 선택 취소는 `Esc`. 구슬을 고르면 마나 소모·놓을 자리가 미리 보이고, 쓸 구슬이 없으면 턴 종료 버튼이 깜빡인다. 턴이 끝나면 변화가 숫자로 뜬다.
 
 ## 실행 (내 PC)
 ```
